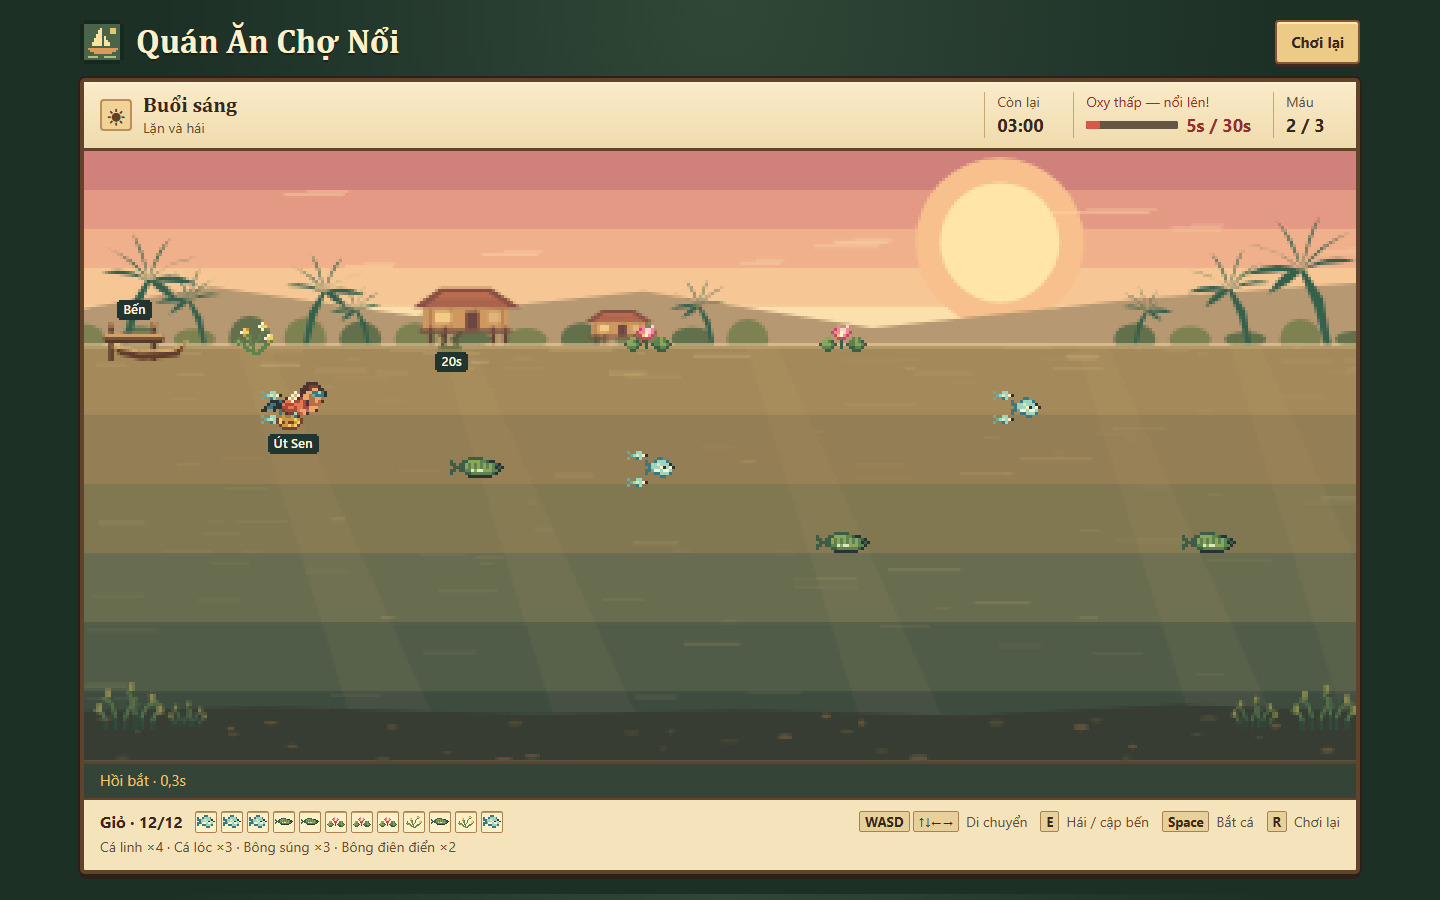
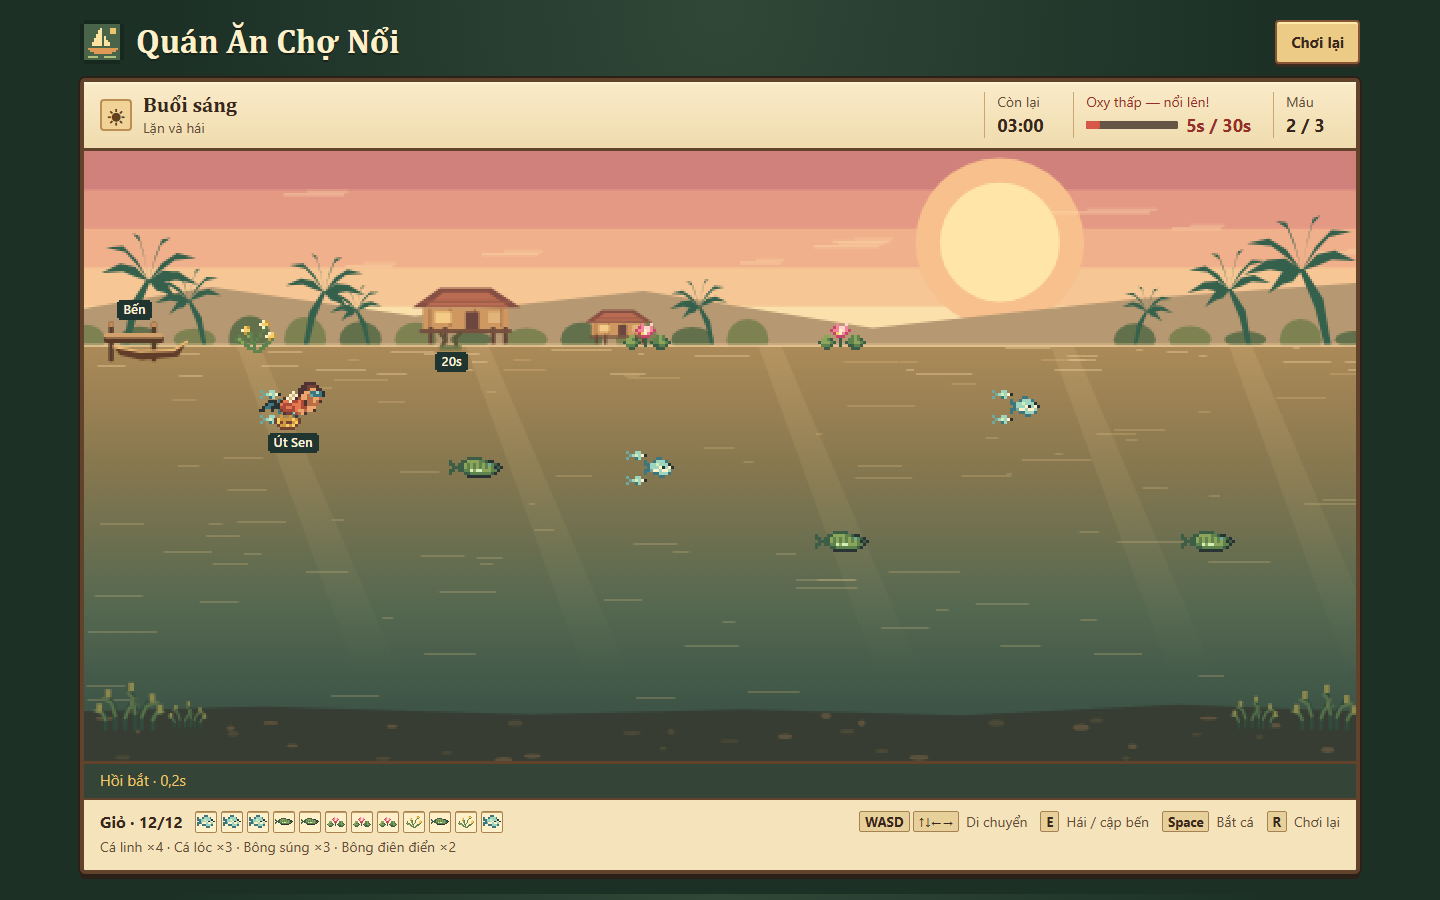
fix(frontend): giữ nét sprite trên nền có độ phân giải cao hơn
Kiểm chứng trên main tích hợp: 66/66 test Python qua.

diff --git a/chonoi/web/index.html b/chonoi/web/index.html
@@ -208,6 +208,7 @@ const canvas = $("world");
 const screen = canvas.getContext("2d", { alpha: false });
 const art = document.createElement("canvas");
 const ctx = art.getContext("2d", { alpha: false });
+const stamps = [];
 const labels = [];
 const itemNames = {
   ca_loc: "cá lóc", ca_linh: "cá linh", bong_sung: "bông súng", bong_dien_dien: "bông điên điển"
@@ -776,14 +777,16 @@ const tiles = {
 };
 const itemIcons = Object.fromEntries(Object.keys(itemColors).map(id => [id, tiles[id].toDataURL()]));
 function stamp(bitmap, x, y, angle = 0, facing = 1) {
-  const { a, d } = ctx.getTransform();
-  ctx.save();
-  ctx.setTransform(1, 0, 0, 1, Math.round(x * a), Math.round(y * d));
-  ctx.imageSmoothingEnabled = false;
-  ctx.rotate(angle);
-  ctx.scale(facing, 1);
-  ctx.drawImage(bitmap, -Math.floor(bitmap.width / 2), -Math.floor(bitmap.height / 2));
-  ctx.restore();
+  stamps.push({ bitmap, x, y, angle, facing });
+}
+function drawStamps(sx, sy, block) {
+  for (const { bitmap, x, y, angle, facing } of stamps) {
+    screen.setTransform(1, 0, 0, 1, Math.round(x * sx), Math.round(y * sy));
+    screen.rotate(angle);
+    screen.scale(facing, 1);
+    const width = bitmap.width * block, height = bitmap.height * block;
+    screen.drawImage(bitmap, -Math.floor(width / 2), -Math.floor(height / 2), width, height);
+  }
 }
 function unitSize(w) { return Math.max(.74, Math.min(1.22, w / 850)); }
 function project(bounds, axis, w, h, above, margin) {
@@ -805,11 +808,12 @@ function scatter(i, salt) {
   return n - Math.floor(n);
 }
 function ripples(w, top, bottom, count, color, salt) {
+  const cell = 1 / ctx.getTransform().d;
   for (let i = 0; i < count; i++) {
     const x = scatter(i, salt) * w;
     const y = top + scatter(i, salt + 1) * (bottom - top);
     const length = 5 + scatter(i, salt + 2) * w * .053;
-    path([[x, y], [x + length, y]], color, i % 5 === 0 ? 2 : 1);
+    rect(x, Math.round(y / cell) * cell, length, cell, color);
   }
 }
 function palm(x, y, size, mirror, color) {
@@ -817,12 +821,8 @@ function palm(x, y, size, mirror, color) {
     ctx.scale(mirror, 1);
     path([[-5, 1], [2, -27], [14, -56], [10, -56], [-4, -34], [-10, 1]], color);
     for (const [dx, dy] of [[-41, -7], [-37, -29], [-14, -41], [19, -37], [41, -20], [43, 3], [25, 17]]) {
-      ctx.beginPath();
-      ctx.moveTo(12, -55);
-      ctx.quadraticCurveTo(12 + dx * .45, -66 + dy * .34, 12 + dx, -55 + dy);
-      ctx.quadraticCurveTo(12 + dx * .27, -56 + dy * .65, 12, -55);
-      ctx.fillStyle = color;
-      ctx.fill();
+      path([[12, -55], [12 + dx * .28, -65 + dy * .28], [12 + dx * .60, -65 + dy * .70],
+        [12 + dx, -55 + dy], [12 + dx * .55, -58 + dy * .76], [12 + dx * .27, -55 + dy * .48]], color);
     }
   });
 }
@@ -875,9 +875,13 @@ function gatherLandscape(w, h, surface, floor) {
   for (const [x, scale, direction] of [[.04, 1.05, 1], [.09, .72, -1], [.18, .86, 1], [.22, .56, -1], [.49, .62, -1], [.83, .55, 1], [.91, .9, -1], [.97, 1.22, -1]]) {
     palm(w * x, surface - 1, art * scale, direction, "#35604c");
   }
-  bands(w, surface, h, ["#a4895a", "#947e55", "#817851", "#696d50", "#515c48", "#3e4c40"]);
-  for (const x of [.12, .28, .52, .78, .90]) {
-    path([[w * x, surface], [w * (x + .025), surface], [w * (x + .17), h], [w * (x + .10), h]], "#f6d2950b");
+  rect(0, surface, w, h - surface, gradient(surface, h,
+    [[0, "#ac8a58"], [.28, "#88784f"], [.63, "#556850"], [1, "#314a41"]]));
+  const rayEnd = surface + (h - surface) * .8;
+  const ray = gradient(surface, rayEnd, [[0, "#f8d79a23"], [1, "#f8d79a00"]]);
+  for (const x of [.12, .30, .53, .76, .90]) {
+    path([[w * x, surface], [w * (x + .018), surface],
+      [w * (x + .13), rayEnd], [w * (x + .095), rayEnd]], ray);
   }
   ripples(w, surface + 5, floor, 86, "#ffdb9b30", 17);
   ripples(w, surface + 1, surface + 29, 28, "#ffdfaa55", 27);
@@ -927,7 +931,7 @@ function paintFish(fish, x, y, size) {
   const bitmap = known(tiles, fish.kind) ?? tiles.ca_linh;
   stamp(bitmap, x, y, angle);
 }
-function drawGather(w, h, map) {
+function drawGather(w, h, map, spriteCellHeight) {
   const { at, top, height } = map;
   const m = snap.meta;
   const size = unitSize(w);
@@ -954,10 +958,12 @@ function drawGather(w, h, map) {
   if (position(p?.pos)) {
     const pt = at(p.pos);
     const heading = num(p.heading_deg) ? p.heading_deg * Math.PI / 180 : 0;
-    const facing = Math.cos(heading) < -.1 ? -1 : 1;
-    const tilt = p.at_surface ? 0 : Math.sin(heading) * facing * .38;
-    stamp(tiles.diver, pt[0], pt[1], tilt, facing);
-    label("Út Sen", pt[0], pt[1] + 31 * size);
+    const vertical = !p.at_surface && Math.abs(Math.sin(heading)) > Math.SQRT1_2;
+    const turn = vertical ? Math.sign(Math.sin(heading)) * Math.PI / 2 : 0;
+    const facing = !vertical && Math.cos(heading) < 0 ? -1 : 1;
+    stamp(tiles.diver, pt[0], pt[1], turn, facing);
+    const halfHeight = (vertical ? tiles.diver.width : tiles.diver.height) * spriteCellHeight / 2;
+    label("Út Sen", pt[0], pt[1] + halfHeight + 13);
   }
 }
 function lanternLine(a, b, count) {
@@ -1088,7 +1094,7 @@ function stovePaint(stove) {
     }
   }
 }
-function drawQuan(w, h, map) {
+function drawQuan(w, h, map, spriteCellHeight) {
   nightRiver(w, h, map);
   raft(map);
   const size = unitSize(w);
@@ -1127,7 +1133,7 @@ function drawQuan(w, h, map) {
     ellipse(x, y + 18 * size, 17 * size, 6 * size, "#49342e66");
     stamp(tiles.sen, x, y);
     if (snap.hand) sprite([x + 20 * size, y + 8 * size], .8 * size, () => bowl(0, 0, true));
-    label("Út Sen", x, y - Math.max(30, 34 * size));
+    label("Út Sen", x, y - tiles.sen.height * spriteCellHeight / 2 - 13);
   }
 }
 function draw() {
@@ -1137,22 +1143,26 @@ function draw() {
   const pixelWidth = Math.round(w * dpr), pixelHeight = Math.round(h * dpr);
   if (canvas.width !== pixelWidth) canvas.width = pixelWidth;
   if (canvas.height !== pixelHeight) canvas.height = pixelHeight;
-  // Art uses whole display-pixel blocks; the HUD and scene labels stay at full resolution.
-  const block = Math.max(1, Math.round(dpr * (w < 741 ? 2 : 3)));
+  // Finer scenery, whole-pixel sprites, and full-resolution labels share the same map.
+  const block = Math.max(1, Math.round(dpr * (w < 741 ? 1 : 2)));
+  const spriteBlock = Math.max(1, Math.round(dpr * (w < 741 ? 2 : 3)));
+  const spriteCellHeight = spriteBlock * h / pixelHeight;
   const artWidth = Math.ceil(pixelWidth / block), artHeight = Math.ceil(pixelHeight / block);
   if (art.width !== artWidth) art.width = artWidth;
   if (art.height !== artHeight) art.height = artHeight;
   ctx.setTransform(pixelWidth / w / block, 0, 0, pixelHeight / h / block, 0, 0);
+  stamps.length = 0;
   labels.length = 0;
   const gather = snap?.mode === "gather";
   const above = gather ? h * .28 : Math.max(62, h * .205);
   const map = project(snap?.meta?.bounds, gather ? "d" : "z", w, h, above, 26);
   if (!map) rect(0, 0, w, h, "#243b32");
-  else if (gather) drawGather(w, h, map);
-  else drawQuan(w, h, map);
+  else if (gather) drawGather(w, h, map, spriteCellHeight);
+  else drawQuan(w, h, map, spriteCellHeight);
   screen.setTransform(1, 0, 0, 1, 0, 0);
   screen.imageSmoothingEnabled = false;
   screen.drawImage(art, 0, 0, artWidth * block, artHeight * block);
+  drawStamps(pixelWidth / w, pixelHeight / h, spriteBlock);
   screen.setTransform(pixelWidth / w, 0, 0, pixelHeight / h, 0, 0);
   drawLabels(w, h);
 }

diff --git a/docs/proof/phase-1/frontend.md b/docs/proof/phase-1/frontend.md
@@ -46,6 +46,8 @@ Hai cảnh được vẽ trên lưới pixel rồi phóng nguyên khối, với 
 
 Đã kiểm bằng Chrome trên cả hai scenario ở 1440×900, 1366×768, 1024×768 và 390×844. Mẫu ảnh xác nhận các khối pixel không bị nội suy, Canvas đúng DPR và trang không tràn ngang. Cả 12 biểu tượng trong giỏ scenario tải được. Đã kiểm di chuyển, chơi lại và kho khả dụng. Không ghi nhận lỗi JavaScript hoặc HTTP. Copy lint của Design Taste Frontend trả 0 lỗi, 0 cảnh báo. [Ảnh Gather](frontend-pixel-gather.png) · [Ảnh Quán](frontend-pixel-quan.png).
 
+Sau phản hồi về độ nét, frontend dùng lưới mịn hơn cho nền, vẽ sprite ở lớp riêng theo khối pixel nguyên và đặt nhãn Út Sen ngoài vùng sprite. Cảnh Gather chuyển sắc độ nước theo độ sâu và có nét dừa nước rõ hơn. Kiểm lại bốn kích thước trên trong Chrome ở DPR 1, 1,25 và 2. Màu các pixel đục trên sprite Út Sen khớp với sprite gốc trong hai scenario. 32/32 test Python qua.
+
 ## Phụ thuộc tích hợp
 
 1. **Người 1 — sinh tồn:** cần oxy hồi/hao, sát thương do ngạt và ngất từ sim. Oxy thấp và Máu đã xem qua scenario; chưa kiểm được chuỗi sự kiện sinh tồn từ đầu đến cuối.
